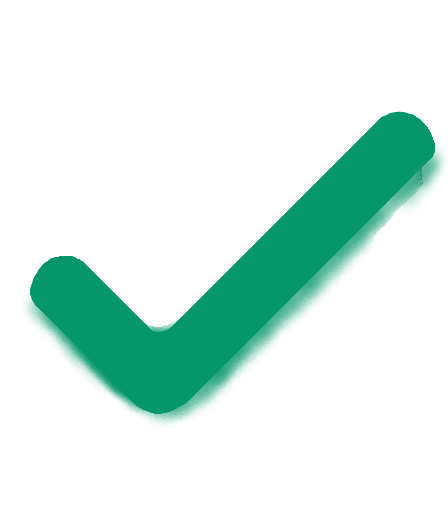
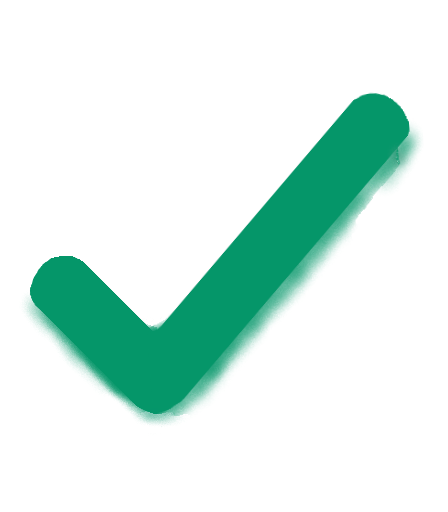
編集機能完璧に実装　ここから微調整

Changed region(s): [[0.2812, 0.2188, 1.0, 0.8438], [0.3438, 0.1562, 0.9062, 0.6562]]

diff --git a/src/components/client/ui/TodoList.tsx b/src/components/client/ui/TodoList.tsx
@@ -14,21 +14,35 @@ const TodoList: React.FC<TodoListProps> = ({
 }) => {
   const { onDragEnd } = useDropTodo(todos, setTodos);
 
+  const handleItemClick = (id: number) => {
+    if (selectedId !== id) {
+      handleSelect(id);
+    }
+  };
+
   return (
     <DragDropContext onDragStart={() => {}} onDragEnd={onDragEnd}>
       <Droppable droppableId="todos-list" direction="vertical">
         {(provided) => (
-          <ul {...provided.droppableProps} ref={provided.innerRef} className="pb-40 pt-5">
+          <ul
+            {...provided.droppableProps}
+            ref={provided.innerRef}
+            className="pb-40 pt-5"
+          >
             {todos.map((todo, index) => (
-              <Draggable key={todo.id} draggableId={todo.id.toString()} index={index}>
+              <Draggable
+                key={todo.id}
+                draggableId={todo.id.toString()}
+                index={index}
+              >
                 {(provided, snapshot) => (
                   <li
                     ref={provided.innerRef}
                     {...provided.draggableProps}
-                    className={`flex-container pt-2 pb-2.5 pl-2 rounded-md mb-2 text-neutral-900 flex justify-between items-center ${
+                    className={`flex-container pt-2 pb-2.5 pl-2 rounded-md mb-2 text-neutral-900 flex justify-between items-center draggable-bg-transition ${
                       snapshot.isDragging ? "bg-emerald-200" : "bg-emerald-100"
-                    } ${selectedId === todo.id ? "bg-selected" : ""}`} // bg-selected を適用
-                    onClick={() => handleSelect(todo.id)}
+                    } ${selectedId === todo.id ? "bg-selected" : ""}`}
+                    onClick={() => handleItemClick(todo.id)}
                   >
                     <div className="checkbox-custom flex-item">
                       <input

diff --git a/src/app/globals.css b/src/app/globals.css
@@ -72,9 +72,9 @@ body {
 .checkbox-custom label::after {
   content: "";
   position: absolute;
-  width: 20px; /* 元のサイズより少し大きく */
-  height: 20px; /* 元のサイズより少し大きく */
-  top: -12px; /* 少し上に */
+  width: 22px; /* 元のサイズより少し大きく */
+  height: 22px; /* 元のサイズより少し大きく */
+  top: -11px; /* 少し上に */
   left: 0px;
   background-image: url("/check.png");
   background-size: cover;
@@ -84,13 +84,13 @@ body {
 }
 
 /* チェックされた時のデザイン */
-.checkbox-custom input[type="checkbox"]:checked + label::before {
+/* .checkbox-custom input[type="checkbox"]:checked + label::before {
   background-image: url("/check.png");
   background-size: cover;
-}
+} */
 
 .checkbox-custom input[type="checkbox"]:checked + label::after {
-  opacity: 1; /* チェック時に表示 */
+  opacity: 1; 
 }
 
 @layer utilities {

diff --git a/src/components/client/ui/SelectableItem.tsx b/src/components/client/ui/SelectableItem.tsx
@@ -33,7 +33,7 @@ const SelectableItem: React.FC<SelectableItemProps> = ({
         onBlur={handleBlur}
         contentEditable={isEditing}
         suppressContentEditableWarning
-        className={`flex-grow flex-shrink min-w-0 cursor-pointer ${isEditing ? 'editing' : ''} ${selectedId === todo.id ? 'bg-selected' : ''}`}
+        className="flex-grow flex-shrink min-w-0 cursor-pointe"
         style={{ outline: isEditing ? 'none' : 'none' }}
       >
         {todo.text}

diff --git a/src/components/models/interface.ts b/src/components/models/interface.ts
@@ -48,9 +48,9 @@ export interface TodoItem {
 
 export interface TodoListProps {
   todos: TodoItem[];
-  setTodos: Dispatch<SetStateAction<TodoItem[]>>;
+  setTodos: React.Dispatch<React.SetStateAction<TodoItem[]>>;
   selectedId: number | null;
-  handleSelect: (id: number) => void;
+  handleSelect: (id: number | null) => void; // 型を変更
   toggleTodoComplete: (id: number) => void;
   updateTodo: (id: number, newText: string) => void;
 }

diff --git a/src/components/client/hooks/data/useSelectTodo.ts b/src/components/client/hooks/data/useSelectTodo.ts
@@ -1,10 +1,9 @@
-// todoリストの選択時
 import { useState } from 'react';
 
 const useSelectTodo = () => {
   const [selectedId, setSelectedId] = useState<number | null>(null);
-  const handleSelect = (id: number) => {
-    setSelectedId(id === selectedId ? null : id);
+  const handleSelect = (id: number | null) => {
+    setSelectedId(id);
   };
   return { selectedId, handleSelect };
 };
